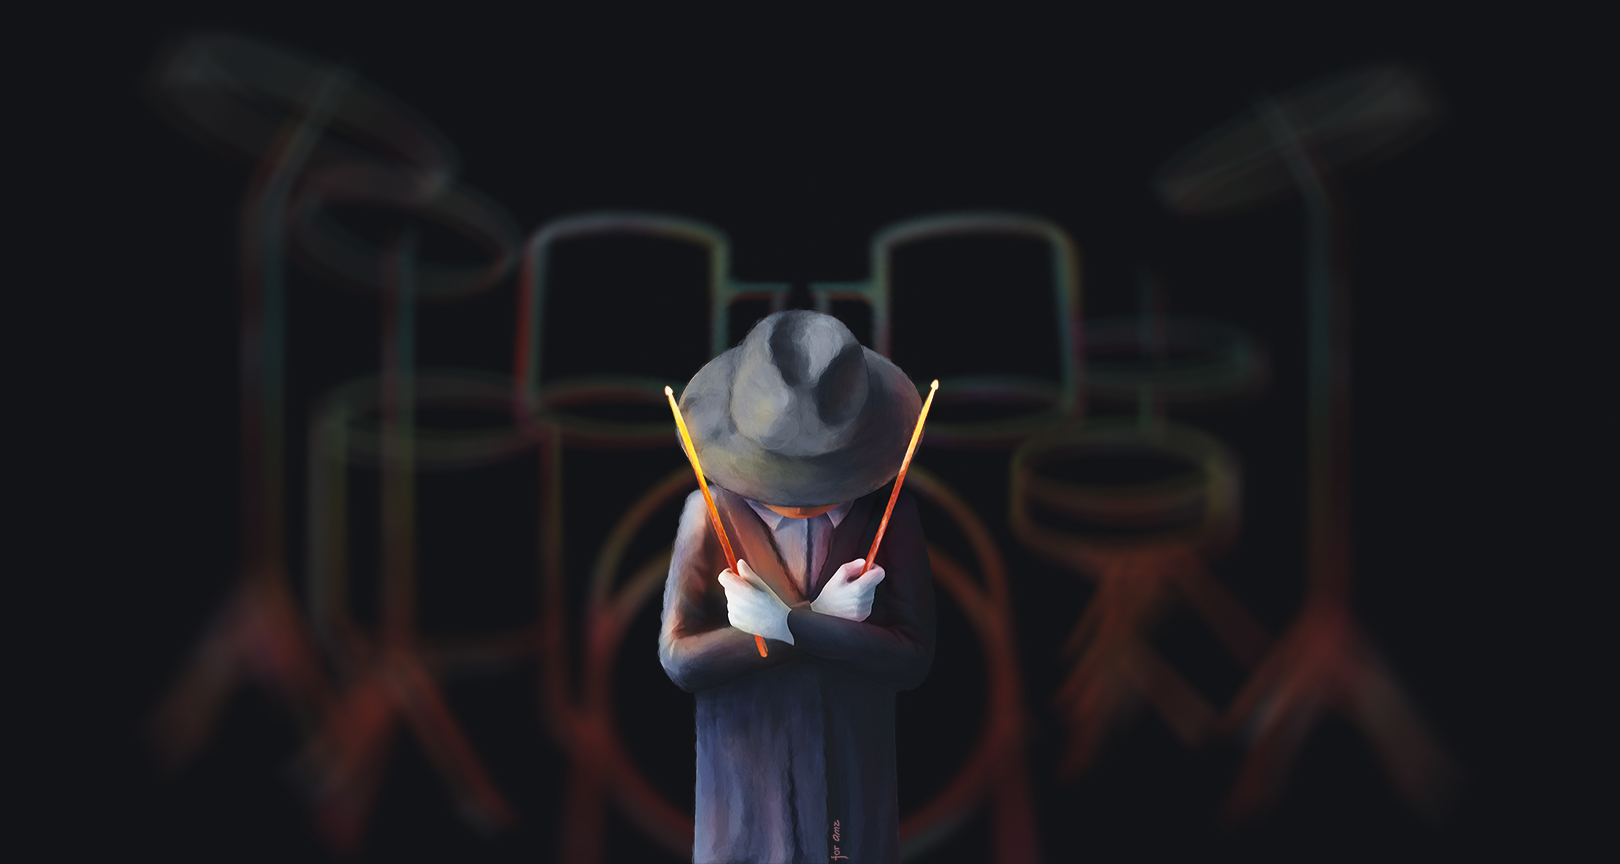
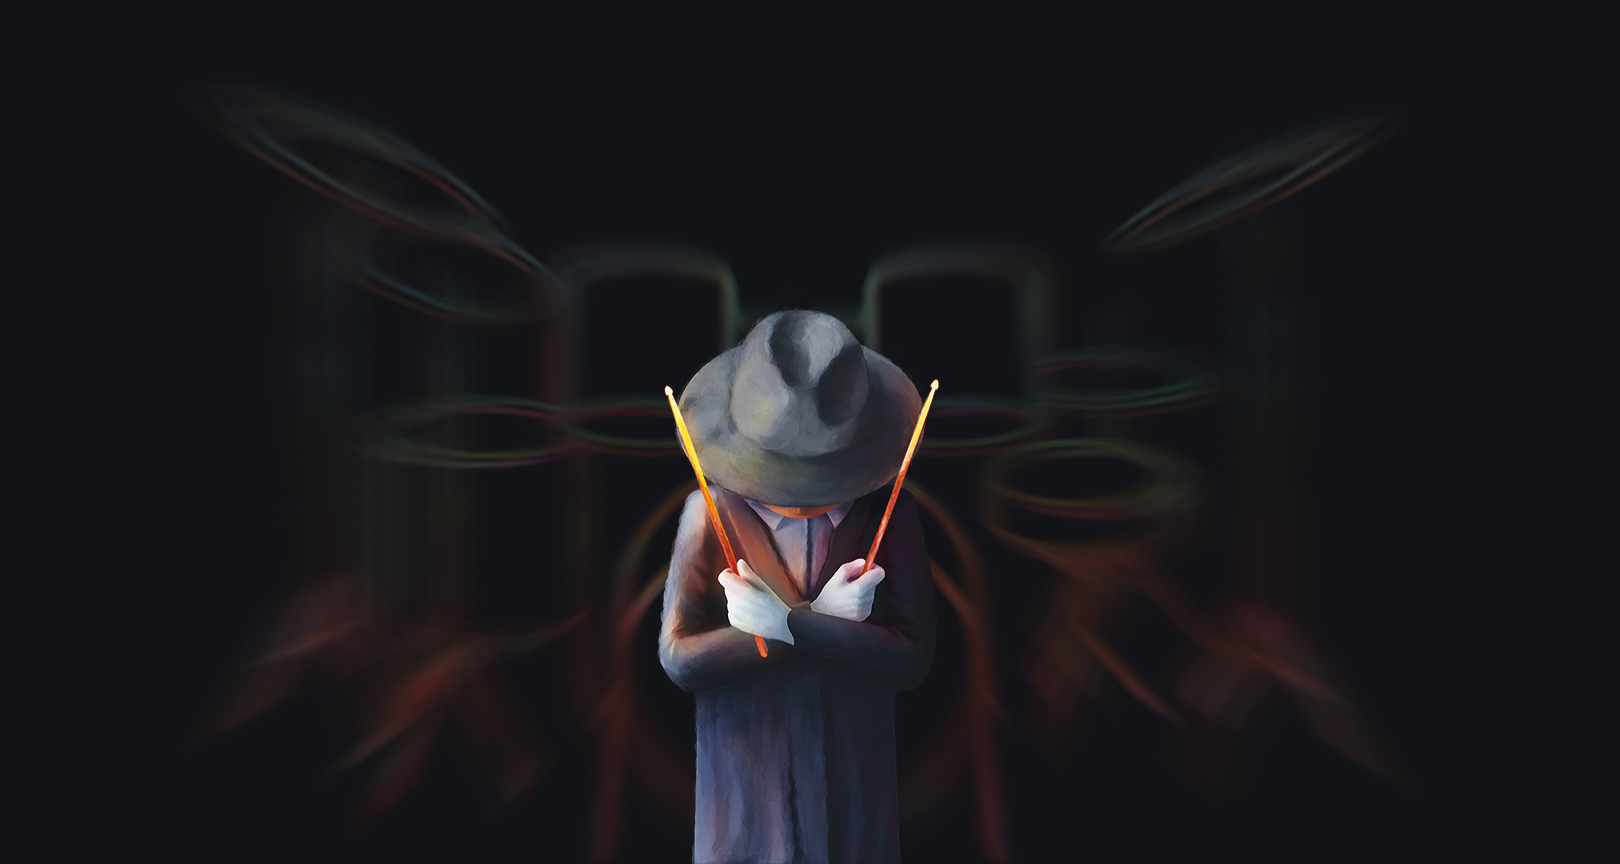
update home

diff --git a/index.html b/index.html
@@ -1,7 +1,7 @@
 ---
 layout: home
 main-title: "Portfolio &#8226; 李心洁"
-subtitle: "Work my way up to Technical Artist, ACG creator, Creative Planner"
+subtitle: "Work my way up to Technical Artist, Creative Planner, ACG Creator"
 description: "Using Blender | Unity | Photoshop | SubstancePainter"
 images:
  - image_path: /img/slider/home01.jpg
@@ -113,7 +113,7 @@ color:#dddddd; target="_blank" title="Flickr">
                     {% if site.deviantart_username %}
 			<li>
    <a href="http://{{ site.deviantart_username }}.deviantart.com" style="
-color:#dddddd; target="_blank" title="DeviantArt">
+color:#c32c2c; target="_blank" title="DeviantArt">
 <i class="fa fa-deviantart"></i> </span>
 </a></li>	
     {% endif %}
